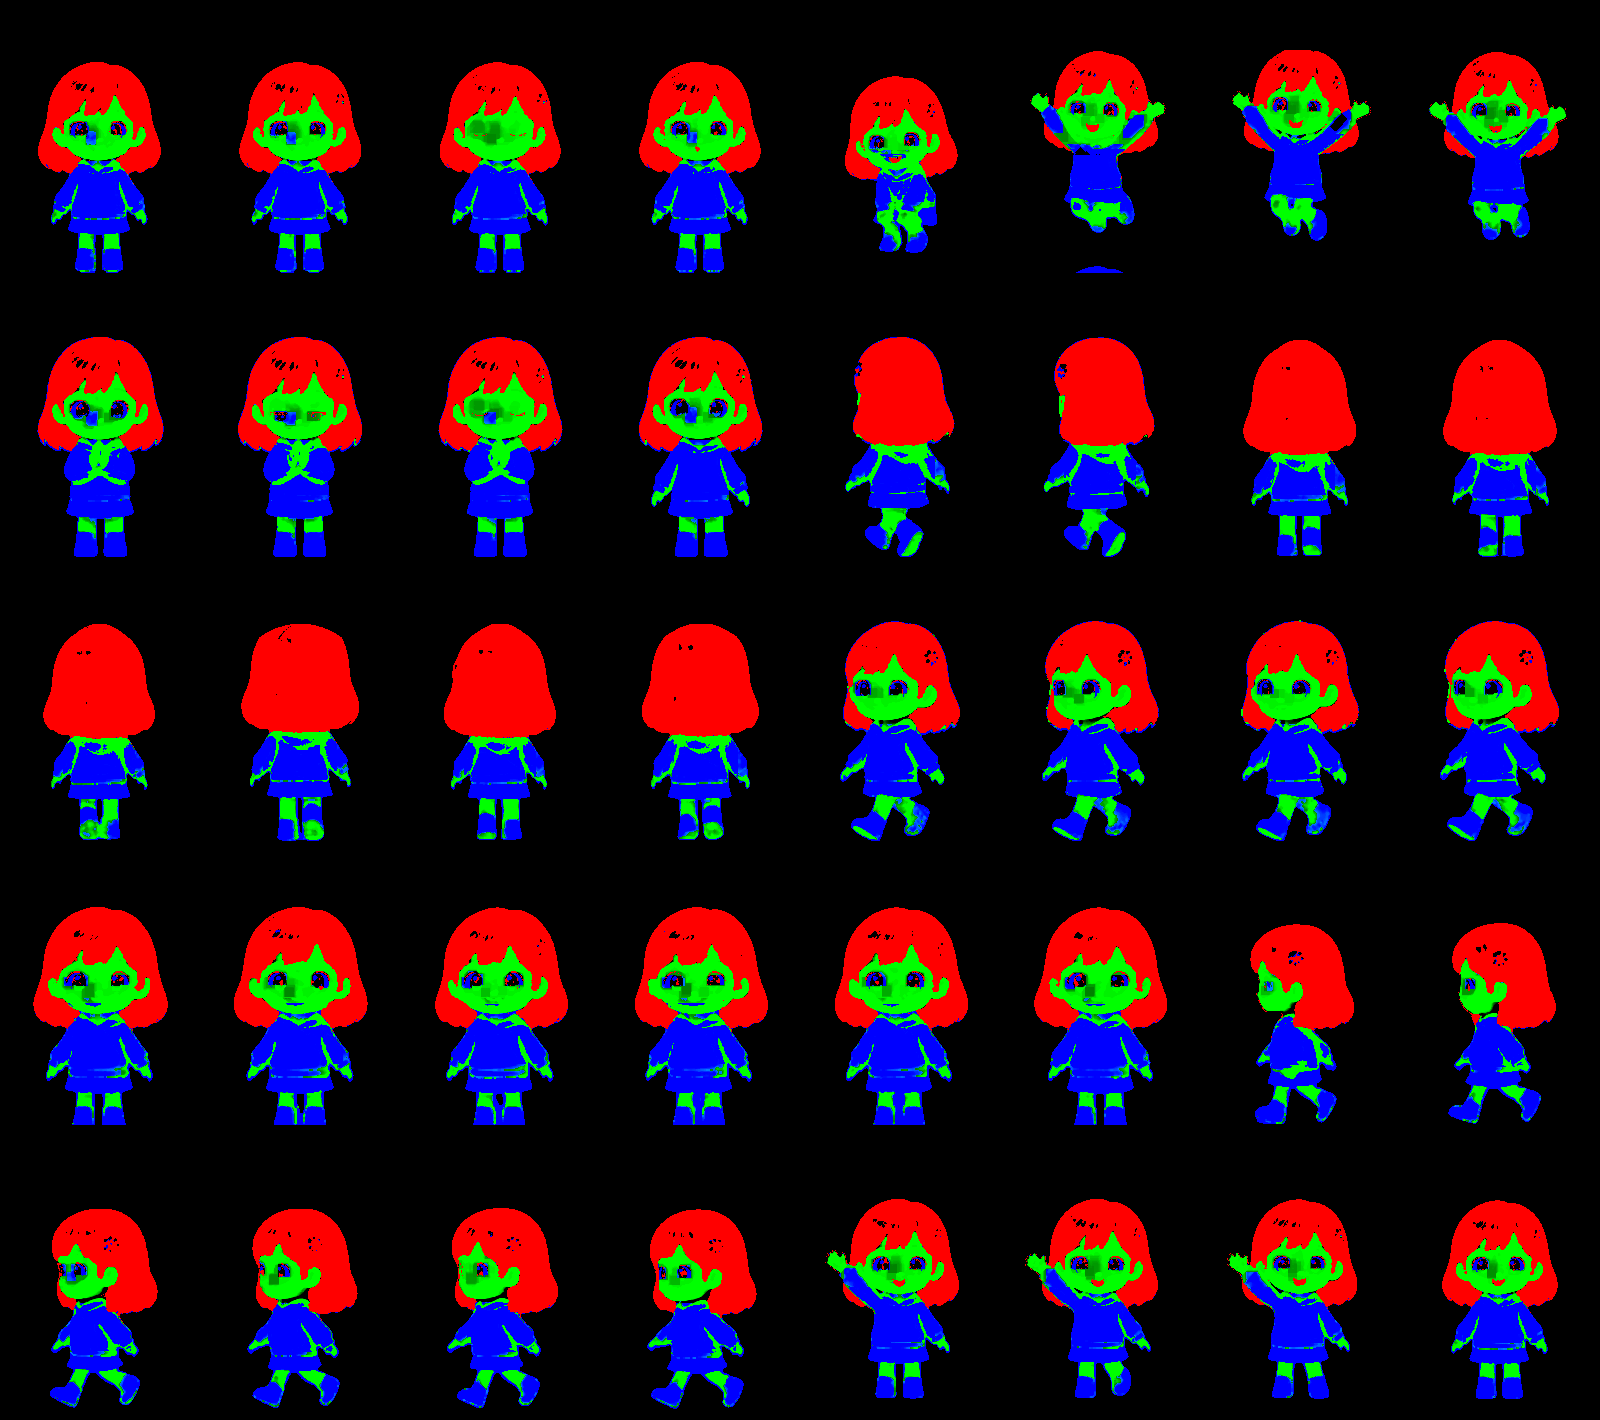
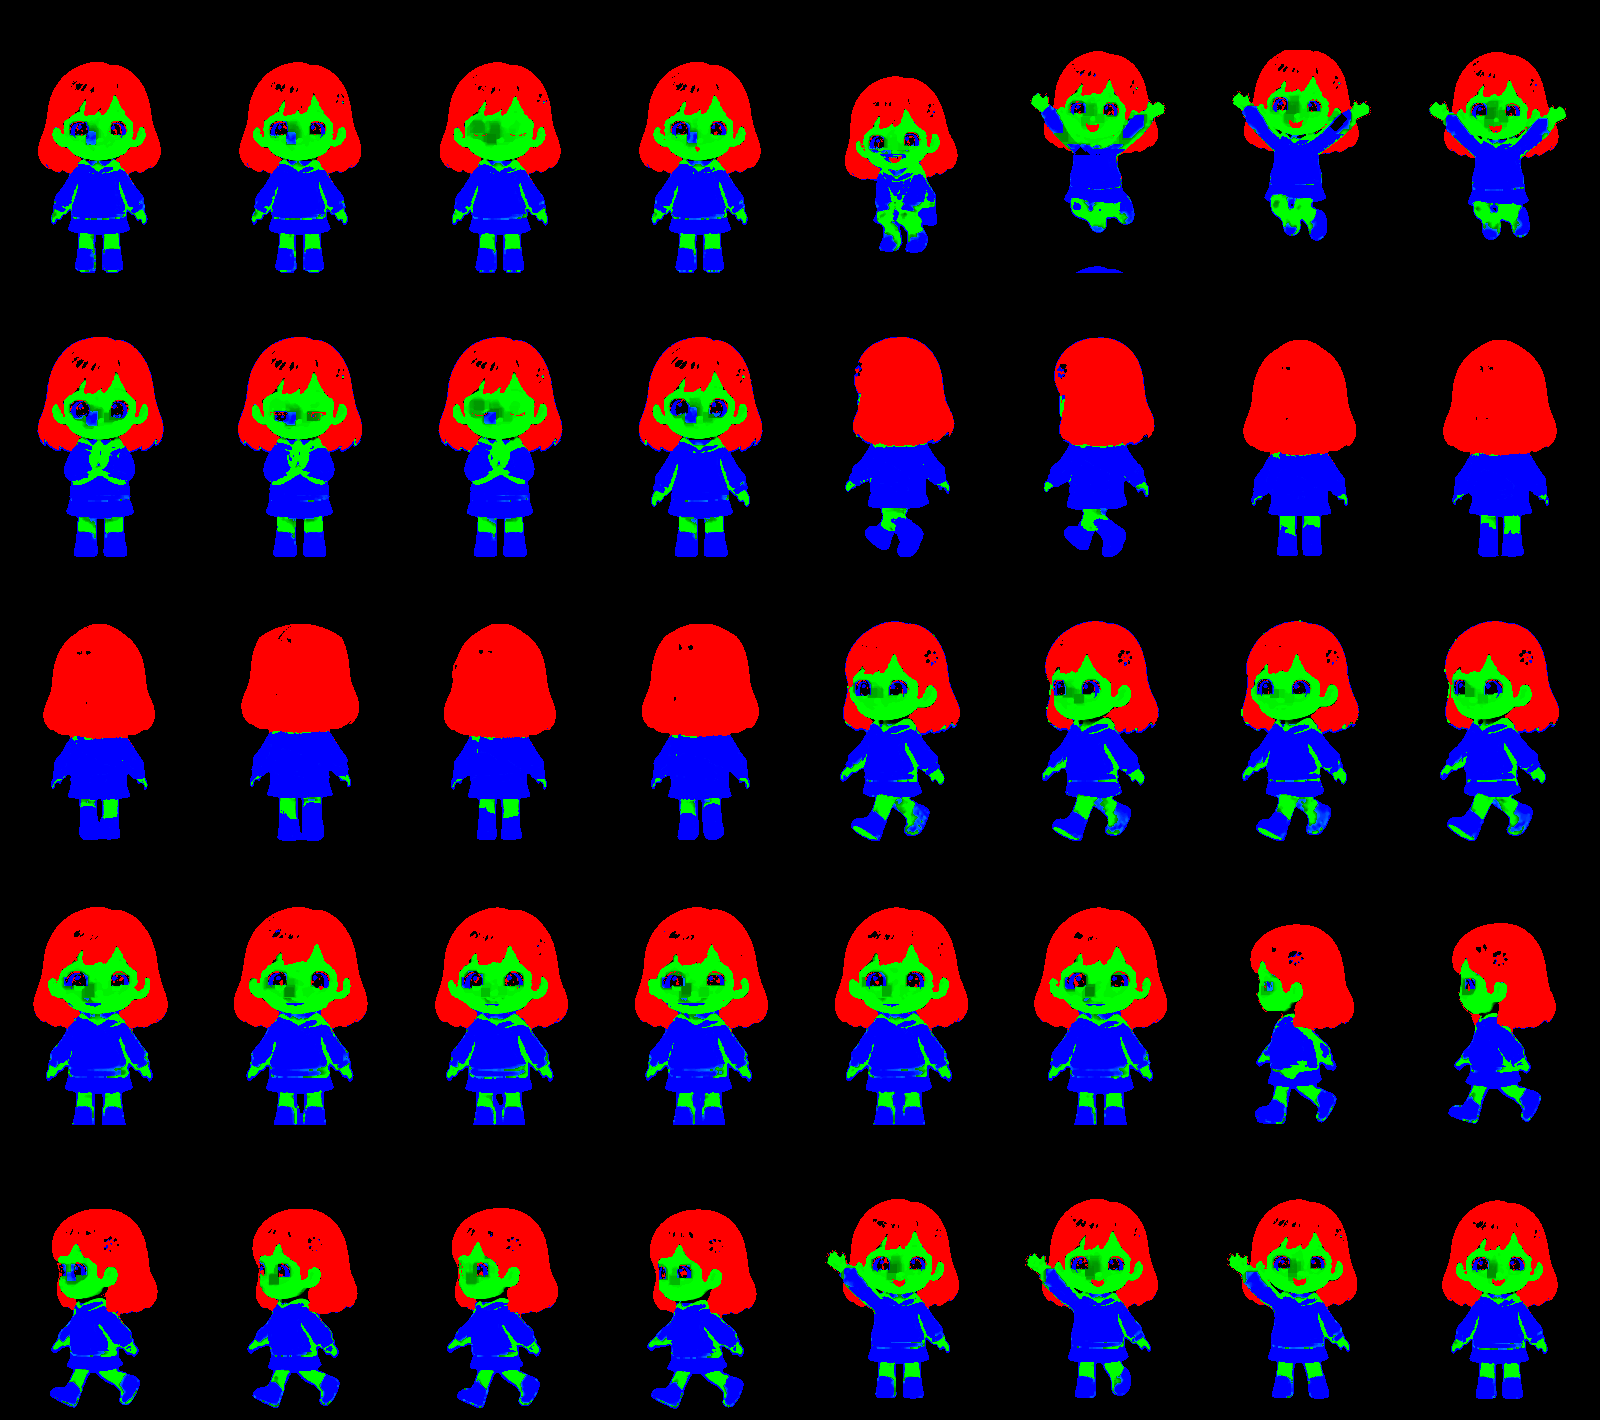
v11: interior fit/scale, stair art, back-view hood mask, acc offsets

diff --git a/js/interior.js b/js/interior.js
@@ -14,7 +14,8 @@ export class Interior {
   F() { return (this.I.floors || []).find(f => f.id === this.floor) || { id: '1F' }; }
   view() { return this.on1 ? (this.I.view1 || { x: 0, y: 0, w: this.W, h: this.H }) : { x: 0, y: 0, w: this.W, h: this.H }; }
   get on1() { return this.floor === '1F'; }
-  stairs() { return this.on1 ? (this.I.stairs1 || []) : [{ ...this.F().stairs, label: '⬆ 1층 본당으로' }]; }
+  stairs() { return this.on1 ? (this.I.stairs1 || []) : [{ ...this.F().stairs, label: '1층 본당으로' }]; }
+  cs() { return this.on1 ? 1 : (this.F().cs || 1); }
   spots() { return this.on1 ? [] : (this.F().spots || []); }
   walkable(x, y) {
     if (!this.on1) { const f = this.F(); return y > f.band[0] && y < f.band[1] && x > f.xr[0] && x < f.xr[1]; }
@@ -30,13 +31,13 @@ export class Interior {
     if (!this.on1) { ctx.drawImage(IMG['in_' + this.floor], 0, 0, this.W, this.H); this.drawMarks(ctx); return; }
     ctx.drawImage(IMG['in_bg' + this.tier] || IMG.in_bg, 0, 0, this.W, this.H); this.drawMarks(ctx);
     const D = this.I.door; ctx.font = '700 20px Pretendard,sans-serif'; ctx.textAlign = 'center'; ctx.lineWidth = 5; ctx.strokeStyle = 'rgba(74,43,120,.75)'; ctx.fillStyle = '#fff';
-    ctx.strokeText('🚪 나가기', D.x, D.y + 50); ctx.fillText('🚪 나가기', D.x, D.y + 50);
+    ctx.strokeText('나가기', D.x, D.y + 50); ctx.fillText('나가기', D.x, D.y + 50);
   }
   drawMarks(ctx) { const t = performance.now() / 1000; ctx.textAlign = 'center';
-    for (const st of this.stairs()) { const up = /⬆/.test(st.label), b = Math.sin(t * 3) * 4; ctx.fillStyle = 'rgba(255,240,170,.5)'; ctx.beginPath(); ctx.ellipse(st.x, st.y + 6, 46, 14, 0, 0, 7); ctx.fill();
-      ctx.fillStyle = '#c79b6b'; for (let i = 0; i < 4; i++) { ctx.fillRect(st.x - 34 + (up ? i * 6 : 0), st.y - 8 - i * 12, 68 - i * 6, 10); } // little staircase
-      ctx.font = '800 17px Pretendard,sans-serif'; ctx.lineWidth = 5; ctx.strokeStyle = 'rgba(74,43,120,.8)'; ctx.fillStyle = '#fff'; ctx.strokeText(st.label, st.x, st.y - 64 + b); ctx.fillText(st.label, st.x, st.y - 64 + b); }
-    for (const sp of this.spots()) { ctx.font = '800 18px Pretendard,sans-serif'; ctx.lineWidth = 5; ctx.strokeStyle = 'rgba(74,43,120,.8)'; ctx.fillStyle = '#fff'; ctx.strokeText(sp.label, sp.x, sp.y - 90); ctx.fillText(sp.label, sp.x, sp.y - 90); }
+    for (const st of this.stairs()) { const down = this.on1 && st.to === 'B1', b = Math.sin(t * 3) * 4, k = this.cs();
+      (down ? stairDown : stairUp)(ctx, st.x, st.y, k, t);
+      pill(ctx, (down ? '▼ ' : '▲ ') + st.label, st.x, st.y - 150 * k - 18 + b); }
+    for (const sp of this.spots()) pill(ctx, sp.label, sp.x, sp.y - 120 * this.cs());
     if (!this.on1) { ctx.font = '900 22px Pretendard,sans-serif'; ctx.lineWidth = 6; ctx.strokeStyle = 'rgba(74,43,120,.85)'; ctx.fillStyle = '#ffe9a8'; ctx.strokeText(this.F().name, this.W / 2, 40); ctx.fillText(this.F().name, this.W / 2, 40); } }
   pewImgH() { return this.I.pewH; }
   drawPew(ctx, i, part) { // part: 'all' | 'front' (seat box + legs only, drawn over a sitter's lap)
@@ -48,9 +49,30 @@ export class Interior {
     const I = this.I, out = []; if (!this.on1) return out;
     I.pews.forEach((p, i) => out.push({ y: p[1] - .5, draw: ctx => this.drawPew(ctx, i, 'all') }));
     const o = I.offering; out.push({ y: o.y, draw: ctx => { const im = IMG.in_offering, w = 84, h = w * im.height / im.width; ctx.drawImage(im, o.x - w / 2, o.y - h + 8, w, h);
-      ctx.fillStyle = '#4a2b78'; ctx.font = '800 14px Pretendard,sans-serif'; ctx.textAlign = 'center'; ctx.fillText('💝 헌금함', o.x, o.y + 26); } });
+      ctx.fillStyle = '#4a2b78'; ctx.font = '800 14px Pretendard,sans-serif'; ctx.textAlign = 'center'; ctx.fillText('헌금함', o.x, o.y + 26); } });
     const b = I.board; out.push({ y: b.y, draw: ctx => { const im = IMG.in_board, w = 96, h = w * im.height / im.width; ctx.drawImage(im, b.x - w / 2, b.y - h + 6, w, h);
       ctx.fillStyle = '#4a2b78'; ctx.font = '800 14px Pretendard,sans-serif'; ctx.textAlign = 'center'; ctx.fillText('기도 게시판', b.x, b.y + 24); } });
     return out;
   }
 }
+
+// v11 stairwell art (canvas, pastel wood): stairUp = side-view flight rising to the right with banister + glow landing;
+// stairDown = floor opening with steps descending into a warm-lit well, railing posts around it. k = room character scale.
+function pill(ctx, txt, x, y) { ctx.font = '800 17px Pretendard,sans-serif'; ctx.textAlign = 'center'; const w = ctx.measureText(txt).width + 26;
+  ctx.fillStyle = 'rgba(74,43,120,.78)'; ctx.beginPath(); ctx.roundRect(x - w / 2, y - 15, w, 30, 15); ctx.fill(); ctx.fillStyle = '#fff'; ctx.fillText(txt, x, y + 6); }
+function stairUp(ctx, x, y, k, t) { const n = 6, sw = 22 * k, sh = 22 * k, W = 110 * k, x0 = x - W / 2 - sw * 1.5;
+  ctx.save(); ctx.fillStyle = 'rgba(70,40,30,.16)'; ctx.beginPath(); ctx.ellipse(x, y + 4, W * .75, 12 * k, 0, 0, 7); ctx.fill();
+  const g = ctx.createLinearGradient(0, y - n * sh, 0, y); g.addColorStop(0, '#e9c79a'); g.addColorStop(1, '#c99a6b');
+  for (let i = 0; i < n; i++) { const sx = x0 + i * sw, sy = y - (i + 1) * sh; ctx.fillStyle = g; ctx.fillRect(sx, sy, W, sh); ctx.fillStyle = '#f6dfbd'; ctx.fillRect(sx, sy, W, 4 * k); ctx.fillStyle = 'rgba(120,80,50,.25)'; ctx.fillRect(sx, sy + sh - 3 * k, W, 3 * k); }
+  ctx.fillStyle = '#b98a5e'; ctx.beginPath(); ctx.moveTo(x0, y); ctx.lineTo(x0 + n * sw, y - n * sh); ctx.lineTo(x0 + n * sw, y); ctx.closePath(); ctx.globalAlpha = .35; ctx.fill(); ctx.globalAlpha = 1;
+  ctx.strokeStyle = '#8f6a8f'; ctx.lineWidth = 5 * k; ctx.lineCap = 'round'; ctx.beginPath(); ctx.moveTo(x0 - 4 * k, y - 46 * k); ctx.lineTo(x0 + n * sw, y - n * sh - 46 * k); ctx.stroke();
+  ctx.lineWidth = 3 * k; for (let i = 0; i <= n; i += 2) { const px = x0 + i * sw, py = y - i * sh; ctx.beginPath(); ctx.moveTo(px, py - 2); ctx.lineTo(px, py - 46 * k + 2); ctx.stroke(); }
+  const gl = ctx.createRadialGradient(x0 + n * sw + W / 2, y - n * sh, 4, x0 + n * sw + W / 2, y - n * sh, 60 * k); gl.addColorStop(0, `rgba(255,240,170,${.55 + Math.sin(t * 2) * .1})`); gl.addColorStop(1, 'rgba(255,240,170,0)');
+  ctx.fillStyle = gl; ctx.fillRect(x0 + n * sw + W / 2 - 60 * k, y - n * sh - 60 * k, 120 * k, 120 * k); ctx.restore(); }
+function stairDown(ctx, x, y, k, t) { const W = 120 * k, H = 52 * k, n = 5;
+  ctx.save(); ctx.fillStyle = '#7a5640'; ctx.beginPath(); ctx.moveTo(x - W / 2, y - H / 2); ctx.lineTo(x + W / 2, y - H / 2); ctx.lineTo(x + W / 2 + 10 * k, y + H / 2); ctx.lineTo(x - W / 2 - 10 * k, y + H / 2); ctx.closePath(); ctx.fill();
+  for (let i = 0; i < n; i++) { const q = i / n, yy = y - H / 2 + q * H, ww = W * (1 - q * .35); ctx.fillStyle = `rgb(${232 - i * 22},${196 - i * 22},${150 - i * 18})`; ctx.fillRect(x - ww / 2, yy, ww, H / n - 2); }
+  const gl = ctx.createRadialGradient(x, y + H / 2, 2, x, y + H / 2, W * .6); gl.addColorStop(0, `rgba(255,214,150,${.5 + Math.sin(t * 2) * .1})`); gl.addColorStop(1, 'rgba(255,214,150,0)'); ctx.fillStyle = gl; ctx.fillRect(x - W, y - H, W * 2, H * 2);
+  ctx.strokeStyle = '#8f6a8f'; ctx.lineWidth = 4 * k; ctx.lineCap = 'round'; const ry = y - H / 2 - 30 * k;
+  ctx.beginPath(); ctx.moveTo(x - W / 2 - 6 * k, ry); ctx.lineTo(x + W / 2 + 6 * k, ry); ctx.stroke(); for (const px of [-W / 2 - 6 * k, 0, W / 2 + 6 * k]) { ctx.beginPath(); ctx.moveTo(x + px, ry); ctx.lineTo(x + px, y - H / 2); ctx.stroke(); }
+  ctx.restore(); }

diff --git a/js/world.js b/js/world.js
@@ -40,6 +40,7 @@ export class World {
 
 const DIRS8 = ['E', 'SE', 'S', 'SW', 'W', 'NW', 'N', 'NE'], SEC = Math.PI / 4;
 const angDiff = (a, b) => { let d = (a - b) % (Math.PI * 2); if (d > Math.PI) d -= Math.PI * 2; if (d < -Math.PI) d += Math.PI * 2; return d; };
+export const CK = { k: 1 };
 export class Char {
   constructor(sprites, char, outfit, x, y, opts = {}) {
     Object.assign(this, { sprites, char, outfit, x, y, vx: 0, vy: 0, face: 'S', ang: Math.PI / 2, visAng: Math.PI / 2, dist: 0, t: Math.random() * 9, emote: null, emoteT: 0, name: opts.name || '', tagColor: opts.tagColor || '#fff', drawH: opts.drawH || 150, bubble: null, bubbleT: 0, equip: opts.equip || null, cfg: opts.cfg,
@@ -129,11 +130,12 @@ export class Char {
   }
   _layer(ctx, p, alpha) {
     ctx.save(); ctx.translate(Math.round(this.x), Math.round(this.y) - p.lift); ctx.scale(p.flip ? -p.sx : p.sx, p.sy);
-    const back = p.dir === 'N' || p.dir === 'NW';
+    const back = p.dir === 'N' || p.dir === 'NW' || p.dir === 'NE', side = p.dir === 'E' || p.dir === 'W';
     const acc = (front) => { if (!this.equip) return; for (const slot of ['back', 'hat', 'pet']) { const id = this.equip[slot]; if (!id) continue; const A = this.cfg.acc[id]; const ai = IMG[A.img]; if (!ai) continue;
       const isFront = A.back ? back : true; if (isFront !== front) continue;
       const aw = this.drawH * A.w * 1.0, ah = aw * ai.height / ai.width, bob = A.bob ? Math.sin(this.t * 3) * 5 : 0; ctx.globalAlpha = alpha;
-      ctx.drawImage(ai, -aw / 2 + (A.x || 0) * this.drawH, -this.drawH * (1 - A.y) - ah / 2 + (A.back ? 0 : -this.drawH * .02) + bob, aw, ah); } };
+      const ax = A.back && side ? -.24 : (A.x || 0) * (side && !A.back ? .7 : 1); // v11: wings stay behind the body in profile (no torso clipping)
+      ctx.drawImage(ai, -aw / 2 + ax * this.drawH, -this.drawH * (1 - A.y) - ah / 2 + (A.back ? 0 : -this.drawH * .02) + bob, aw, ah); } };
     acc(false);
     const ht = this._img(ctx, p.key, alpha); if (alpha > .3) this.headY = Math.min(this.headY ?? 1e9, this.y - p.lift + ht * p.sy);
     // in-between: fade the next walk frame in over the last part of each step (12 perceived frames from 6 drawn)
@@ -141,7 +143,11 @@ export class Char {
     acc(true);
     ctx.restore();
   }
-  draw(ctx) {
+  // v11: per-room character scale (props on 2F/B1 are painted larger) — scales the whole sprite about the feet
+  draw(ctx) { const K = CK.k; if (K === 1) return this._draw(ctx);
+    ctx.save(); ctx.translate(this.x, this.y); ctx.scale(K, K); ctx.translate(-this.x, -this.y); this._draw(ctx); ctx.restore(); ctx.globalAlpha = 1;
+    if (this.headY != null) this.headY = this.y - (this.y - this.headY) * K; }
+  _draw(ctx) {
     const p = this.pose(); if (!IMG[p.key]) return; this.headY = null;
     const k = this.drawH / 220;
     // dust puffs (behind) + soft contact shadow
@@ -159,7 +165,7 @@ export class Char {
     ctx.globalAlpha = 1;
   }
   drawLabel(ctx) {
-    const top = Math.min(this.y - this.drawH * 1.08 - 6, (this.headY ?? 1e9) - 15); // tag sits above the actual head top of the frame drawn this tick
+    const top = Math.min(this.y - this.drawH * CK.k * 1.08 - 6, (this.headY ?? 1e9) - 15); // tag sits above the actual head top of the frame drawn this tick
     if (this.name) { ctx.font = '600 15px Pretendard, sans-serif'; ctx.textAlign = 'center'; const tw = ctx.measureText(this.name).width + 14;
       ctx.fillStyle = 'rgba(40,40,70,.55)'; rr(ctx, this.x - tw / 2, top - 11, tw, 22, 11); ctx.fill(); ctx.fillStyle = this.tagColor; ctx.fillText(this.name, this.x, top + 5); }
     if (this.bubble) { ctx.font = '500 16px Pretendard, sans-serif'; const MW = 220, LH = 21;

diff --git a/js/main.js b/js/main.js
@@ -5,7 +5,7 @@ import { loadAll, Sprites, IMG } from './assets.js';
 import { AV } from './avatar.js';
 import { Cust } from './custom.js';
 import './dongnpc.js';
-import { World, Char, rr } from './world.js';
+import { World, Char, rr, CK } from './world.js';
 import { Interior } from './interior.js';
 import * as St from './state.js';
 import { Net } from './net.js';
@@ -411,7 +411,7 @@ function update(dt) {
   if ((mmT -= dt) <= 0) { mmT = .1; drawMinimap(); if (modal === '#map') drawMap(); }
   const t = nearest(); const b = $('#btn-act'); b.textContent = worship ? '♪' : sitting ? '일어나기' : t ? ACTLBL[t.type] : '대화'; b.classList.toggle('glow', !!t || !!sitting || !!worship);
   // camera
-  const Wd = cur(), Vw = scene === 'field' ? { x: 0, y: 0, w: Wd.W, h: Wd.H } : inside.view(), z = cam.z = scene === 'field' ? Math.max(.55, Math.min(1, Math.min(innerWidth, innerHeight * 1.4) / 1200)) : Math.min(1, innerWidth / Vw.w, innerHeight / Vw.h); // v10 interior: CONTAIN-fit (whole room visible, never zoomed past 1:1 so sprites never upscale)
+  const Wd = cur(), Vw = scene === 'field' ? { x: 0, y: 0, w: Wd.W, h: Wd.H } : inside.view(), zc = Math.min(1, innerWidth / Vw.w, innerHeight / Vw.h), z = cam.z = scene === 'field' ? Math.max(.55, Math.min(1, Math.min(innerWidth, innerHeight * 1.4) / 1200)) : innerHeight > innerWidth * 1.2 ? Math.max(zc, Math.min(1, innerHeight * .55 / Vw.h, innerWidth / (Vw.w * .42))) : zc; CK.k = scene === 'field' ? 1 : inside.cs(); // v11: portrait phones fit room HEIGHT (≈42% of width visible, camera follows) so characters stay readable; else CONTAIN. v10 interior: CONTAIN-fit (whole room visible, never zoomed past 1:1 so sprites never upscale)
   let tx = player.x, ty = player.y - 60; const hw = innerWidth / 2 / z, hh = innerHeight / 2 / z;
   tx = Vw.w > hw * 2 ? Math.max(Vw.x + hw, Math.min(Vw.x + Vw.w - hw, tx)) : Vw.x + Vw.w / 2; ty = Vw.h > hh * 2 ? Math.max(Vw.y + hh, Math.min(Vw.y + Vw.h - hh, ty)) : Vw.y + Vw.h / 2;
   if (scene !== 'field' && Math.abs(cam.zPrev - z) > .001) { cam.x = tx; cam.y = ty; } cam.zPrev = z;

diff --git a/tools/qa_inside.py b/tools/qa_inside.py
@@ -1,0 +1,23 @@
+import sys, json
+from playwright.sync_api import sync_playwright
+URL = sys.argv[1] if len(sys.argv) > 1 else 'http://127.0.0.1:8765'; TAG = sys.argv[2] if len(sys.argv) > 2 else 'a'
+out = {}
+with sync_playwright() as p:
+    b = p.chromium.launch(executable_path='/usr/bin/google-chrome', args=['--no-sandbox'])
+    for vw, vh, t in [(1280, 800, 'pc'), (390, 844, 'mo')]:
+        ctx = b.new_context(viewport={'width': vw, 'height': vh}, is_mobile=t == 'mo', has_touch=t == 'mo'); pg = ctx.new_page(); errs = []; pg.on('pageerror', lambda e: errs.append(str(e)))
+        pg.goto(URL + '/'); pg.evaluate('localStorage.clear(); localStorage.setItem("maeul_eula","9")'); pg.reload(); pg.wait_for_function('window.__ready', timeout=60000)
+        pg.evaluate("G.start('큐에이','basic')"); pg.wait_for_timeout(900); pg.evaluate('G.closeModal()'); pg.wait_for_timeout(800)
+        pg.evaluate("G.enterChapel(true)"); pg.wait_for_timeout(1200)
+        for fl in ['1F', '2F', 'B1']:
+            pg.evaluate(f"G.goFloor('{fl}')"); pg.wait_for_timeout(1500)
+            out[f'{t}/{fl}'] = pg.evaluate("({z:G.cam.z, ph:G.player.drawH, W:G.inside.W})")
+            pg.screenshot(path=f'shots/q11/{TAG}_{t}_{fl}.png')
+        pg.evaluate("G.exitChapel&&G.exitChapel(true)"); pg.wait_for_timeout(800)
+        pg.evaluate("P2.openLevels()"); pg.wait_for_timeout(900); out[f'{t}/lv'] = pg.evaluate("(()=>{const m=[...document.querySelectorAll('.modal')].find(e=>getComputedStyle(e).display!='none'&&e.getBoundingClientRect().width>2);const p=m&&(m.querySelector('.panel')||m);const r=p&&p.getBoundingClientRect();return m&&[m.id,r.width|0,r.height|0]})()")
+        pg.screenshot(path=f'shots/q11/{TAG}_{t}_lv.png'); pg.evaluate('G.closeModal()'); pg.wait_for_timeout(300)
+        pg.evaluate("document.querySelector('#btn-inv').click()"); pg.wait_for_timeout(600); pg.evaluate("[...document.querySelectorAll('button')].find(b=>/캐릭터 꾸미기/.test(b.textContent))?.click()"); pg.wait_for_timeout(1500)
+        pg.screenshot(path=f'shots/q11/{TAG}_{t}_cz.png'); pg.evaluate('G.closeModal()')
+        pg.evaluate("G.openGacha(); setTimeout(()=>G.doRoll&&G.doRoll(),200)"); pg.wait_for_timeout(2200); pg.screenshot(path=f'shots/q11/{TAG}_{t}_gacha.png')
+        out[f'{t}/err'] = errs[:5]; ctx.close()
+print(json.dumps(out, ensure_ascii=False))

diff --git a/tools/rebuild_skin_mask.py b/tools/rebuild_skin_mask.py
@@ -6,7 +6,7 @@ from PIL import Image
 from scipy import ndimage as nd
 A = json.load(open('assets/characters/atlas.json')); FW, FH = A['frameW'], A['frameH']
 HOOD = 0
-def cell(B, M):
+def cell(B, M, backv=False):
     global HOOD
     a = B[..., 3]; rows = np.where((a > 40).any(1))[0]; G = M[..., 1].copy(); Bo = M[..., 2].copy()
     if not len(rows): return G, Bo, 0
@@ -25,6 +25,9 @@ def cell(B, M):
         Y = np.arange(a.shape[0])[:, None]; X = np.arange(a.shape[1])[None, :]; cxm = (cols[0] + cols[-1]) / 2
         hood = (G > 8) & (Y > top + HOOD * fh) & (Y < top + .72 * fh) & (np.abs(X - cxm) < .32 * cw) & (sat < .30)
         Bo[hood] = 255; G[hood] = 0; moved += hood.sum()
+    if HOOD and backv:  # v11 back views: hood, shoulders and shoes are cream (low saturation) but were labelled skin → outfit
+        r, g, b = [B[..., i].astype(float) for i in range(3)]; mx = np.maximum(np.maximum(r, g), b); sat = (mx - np.minimum(np.minimum(r, g), b)) / np.maximum(mx, 1)
+        cream = (G > 8) & ((sat < .2) | (r - b < 80)); Bo[cream] = 255; G[cream] = 0; moved += cream.sum()
     return G, Bo, moved
 if __name__ == '__main__':
     for co, sh in A['sheets'].items():
@@ -36,6 +39,7 @@ if __name__ == '__main__':
         f = 'assets/characters/' + sh['img'].replace('.png', '_mask.png'); bak = f.replace('.png', '_v9bak.png')
         if not os.path.exists(bak): shutil.copy(f, bak)
         B = np.asarray(Image.open(f.replace('_mask', '')).convert('RGBA')); M = np.asarray(Image.open(bak).convert('RGBA')).copy(); tot = 0
+        BK = {tuple(v[:2]) for k2, v in sh['cells'].items() if '_N_' in k2 or '_NW_' in k2 or '_NE_' in k2}
         for x, y in {tuple(v[:2]) for v in sh['cells'].values()}:
-            G, Bo, k = cell(B[y:y + FH, x:x + FW], M[y:y + FH, x:x + FW]); M[y:y + FH, x:x + FW, 1] = G; M[y:y + FH, x:x + FW, 2] = Bo; tot += k
+            G, Bo, k = cell(B[y:y + FH, x:x + FW], M[y:y + FH, x:x + FW], (x, y) in BK); M[y:y + FH, x:x + FW, 1] = G; M[y:y + FH, x:x + FW, 2] = Bo; tot += k
         Image.fromarray(M).save(f); print(f, 'shorts px moved to outfit:', int(tot))

diff --git a/tools/qa_walkh.py b/tools/qa_walkh.py
@@ -1,0 +1,16 @@
+# v11: body-height constancy across walk frames: drawn height = (alpha bottom - alpha top) * meta scale, per sheet+direction
+import json, numpy as np, sys
+from PIL import Image
+A = json.load(open('assets/characters/atlas.json')); FW, FH = A['frameW'], A['frameH']; worst = []
+for co, sh in A['sheets'].items():
+    im = np.asarray(Image.open('assets/characters/' + sh['img']).convert('RGBA'))[..., 3]; D = {}
+    for k, (x, y, *_) in sh['cells'].items():
+        if not k.startswith('walk_'): continue
+        a = im[y:y + FH, x:x + FW] > 40; r = np.where(a.any(1))[0]
+        if not len(r): continue
+        sc = (A['meta'].get(f'{co}/{k}') or [1])[0]; d = k.split('_')[1]; D.setdefault(d, []).append((r[-1] - r[0]) * sc)
+    M = [np.mean(v) for v in D.values()]
+    if len(M) > 1: worst.append((round(float((max(M) - min(M)) / np.mean(M)) * 100, 2), co, 'across-dirs', len(M)))
+    for d, hs in D.items():
+        hs = np.array(hs); var = (hs.max() - hs.min()) / hs.mean(); worst.append((round(float(var) * 100, 2), co, d, len(hs)))
+worst.sort(reverse=True); print('max walk height spread %:', worst[:8]); bad = [w for w in worst if w[0] > (4.0 if w[2] == 'across-dirs' else 3.0)]; print('over 3%:', len(bad)); sys.exit(1 if bad else 0)
